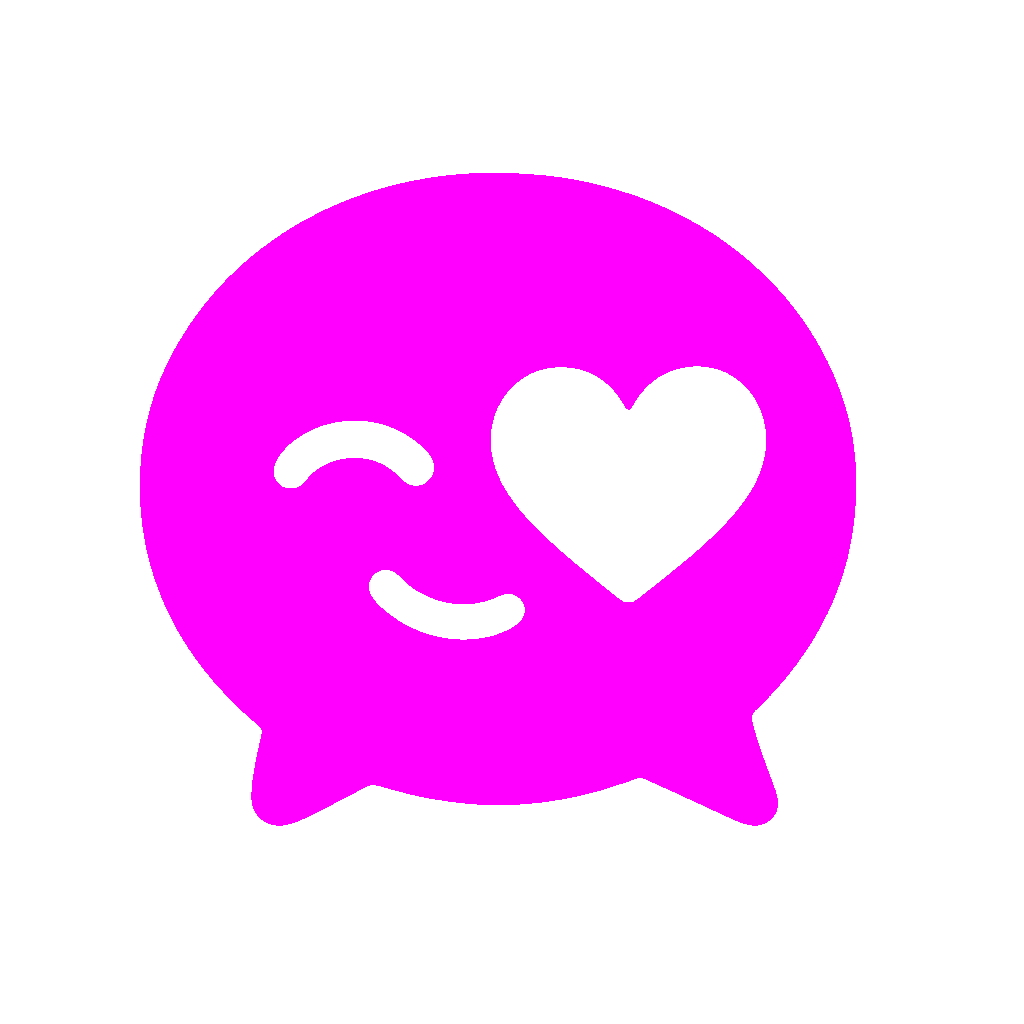
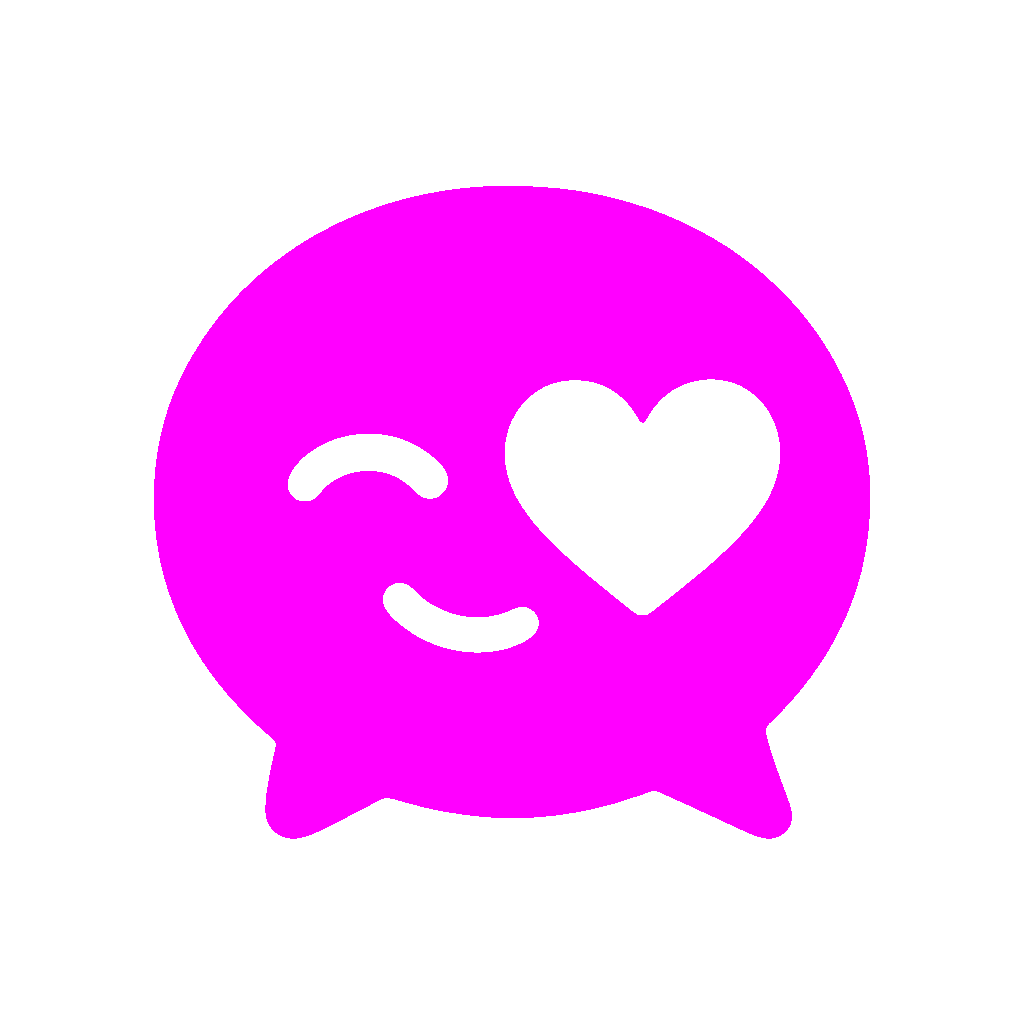
Take the re-exported second-date template into the page
The file had been sitting modified in the working tree since 23 Sep;
it is not my change and I do not know which export produced it. It is
the same icon - speech bubble, winking eye, heart - drawn a little
fuller and weighing 10 KB instead of 32 KB, and the page renders it in
two places (step 6 and the closing graph), so it belongs committed
rather than left to rot as a local edit.

The references carry ?v=2 for the same reason the scene pictures do:
the name is unchanged, so a browser that has been on the page would
otherwise keep serving the old bytes.

diff --git a/how-it-works/index.html b/how-it-works/index.html
@@ -416,7 +416,7 @@ html[lang="de"] [data-lang="en"], html[lang="en"] [data-lang="de"]{display:none}
             <span class="lbl"><span data-lang="de">kein Interesse</span><span data-lang="en">not interested</span></span>
           </div>
           <div class="act big r-mid">
-            <span class="well"><span class="circle"><img src="assets/second_date_template.png" alt=""></span></span>
+            <span class="well"><span class="circle"><img src="assets/second_date_template.png?v=2" alt=""></span></span>
             <span class="lbl"><span data-lang="de">zweites Date</span><span data-lang="en">second date</span></span>
           </div>
         </div>
@@ -447,7 +447,7 @@ html[lang="de"] [data-lang="en"], html[lang="en"] [data-lang="de"]{display:none}
       </div>
       <div class="wire stem" aria-hidden="true"><i></i></div>
       <div class="node one r-mid">
-        <span class="circle"><img src="assets/second_date_template.png" alt=""></span>
+        <span class="circle"><img src="assets/second_date_template.png?v=2" alt=""></span>
         <span class="lbl"><span data-lang="de">zweites Date</span><span data-lang="en">second date</span></span>
       </div>
     </div>
